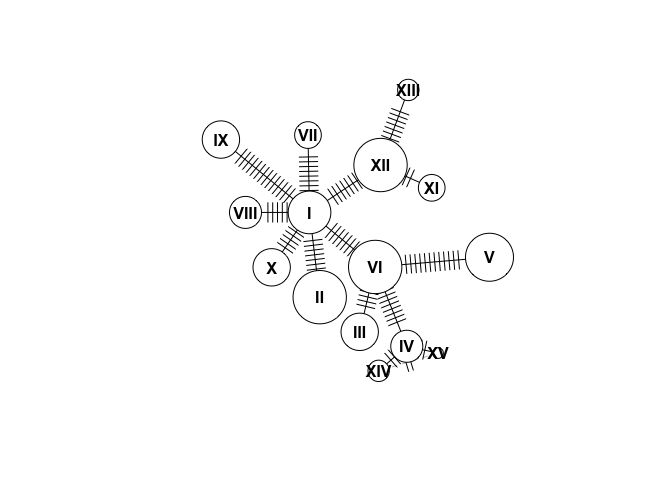
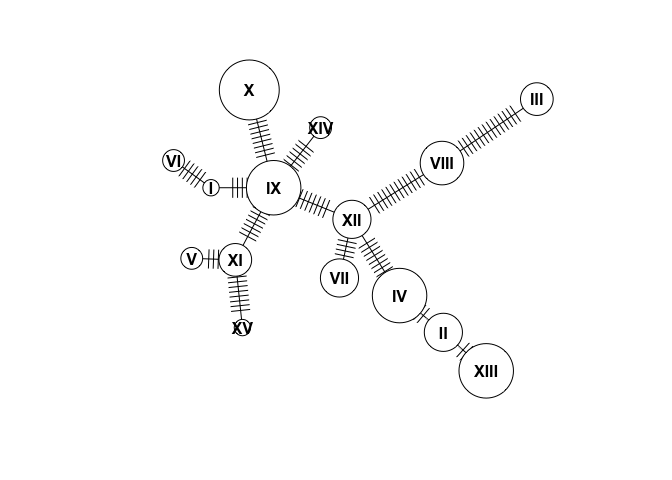
additions

diff --git a/README.md b/README.md
@@ -171,17 +171,17 @@ data
     ## All sequences of same length: 965 
     ## 
     ## Labels:
-    ## No306
-    ## No0908S
-    ## No0912S
-    ## No0908S
+    ## No304
+    ## No1208S
+    ## No1114S
     ## No1007S
-    ## No305
+    ## No1208S
+    ## No0910S
     ## ...
     ## 
     ## Base composition:
     ##     a     c     g     t 
-    ## 0.306 0.261 0.126 0.306 
+    ## 0.306 0.262 0.126 0.306 
     ## (Total: 96.5 kb)
 
  
@@ -196,12 +196,12 @@ head(meta)
 ```
 
     ##     names   loc
-    ## 1   No306 south
-    ## 2 No0908S north
-    ## 3 No0912S south
-    ## 4 No0908S north
-    ## 5 No1007S north
-    ## 6   No305 south
+    ## 1   No304 south
+    ## 2 No1208S north
+    ## 3 No1114S north
+    ## 4 No1007S north
+    ## 5 No1208S south
+    ## 6 No0910S south
 
 NOTE: If we were doing this on real data, we would usually read in the populations from a spreadsheet. Here we just make them up to illustrate how the process works!
 
@@ -223,7 +223,7 @@ hap
     ## Haplotype labels and frequencies:
     ## 
     ##    I   II  III   IV    V   VI  VII VIII   IX    X   XI  XII XIII  XIV   XV 
-    ##    8   10    7    6    9   10    5    6    7    7    5   10    4    4    2
+    ##    3    7    6   10    4    4    7    8   10   11    6    7   10    4    3
 
  
 
@@ -236,11 +236,11 @@ head(hapInfo)
 
     ##   values ind
     ## 1      1   I
-    ## 2     10   I
-    ## 3     13   I
-    ## 4     27   I
-    ## 5     28   I
-    ## 6     42   I
+    ## 2     17   I
+    ## 3     83   I
+    ## 4      2  II
+    ## 5      5  II
+    ## 6     23  II
 
 This command is a bit complicated. Briefly, it takes a list of individuals for each haplotype, and makes a dataframe that tells you which individual has which haplotype. The tricky part is that it returns the *indexes* of the individuals, not their actual data. Let's change the column names to make more sense:
 
@@ -257,13 +257,13 @@ merged <- data.frame(cbind(hapInfo,meta[hapInfo$index,]))
 head(merged)
 ```
 
-    ##    index haplotype names   loc
-    ## 1      1         I No306 south
-    ## 10    10         I No306 south
-    ## 13    13         I No306 north
-    ## 27    27         I No306 north
-    ## 28    28         I No306 north
-    ## 42    42         I No306 north
+    ##    index haplotype   names   loc
+    ## 1      1         I   No304 south
+    ## 17    17         I   No304 south
+    ## 83    83         I   No304 south
+    ## 2      2        II No1208S north
+    ## 5      5        II No1208S south
+    ## 23    23        II No1208S north
 
  
 
@@ -293,12 +293,12 @@ head(pie)
 
     ##      
     ##       north south
-    ##   I       5     3
-    ##   II      7     3
-    ##   III     5     2
-    ##   IV      2     4
-    ##   V       4     5
-    ##   VI      6     4
+    ##   I       0     3
+    ##   II      6     1
+    ##   III     5     1
+    ##   IV      7     3
+    ##   V       1     3
+    ##   VI      2     2
 
 This table shows, for each haplotype, how many individuals come from the north and how many come from the south. Remember, this is completely made up data so we don't expect any pattern here. Now we can use this to color the circles in the haplotype network, including adding a legend:
 
@@ -320,7 +320,7 @@ For homework you will create a haplotype network using the mtDNA data from Cliff
 
 ### *Homework 5: Write a script that does the following:*
 
-#### 1. Read in the fasta file "mtDNA.fa" and the metadata file "metadata.csv"
+#### 1. Read in the fasta file "mtDNA.fa" and the metadata file "metadata.csv" (hint: to read the .fa file you will use the command read.dna with argument format="fasta")
 
 #### 2. Create a haplotype network (no colors)
 
